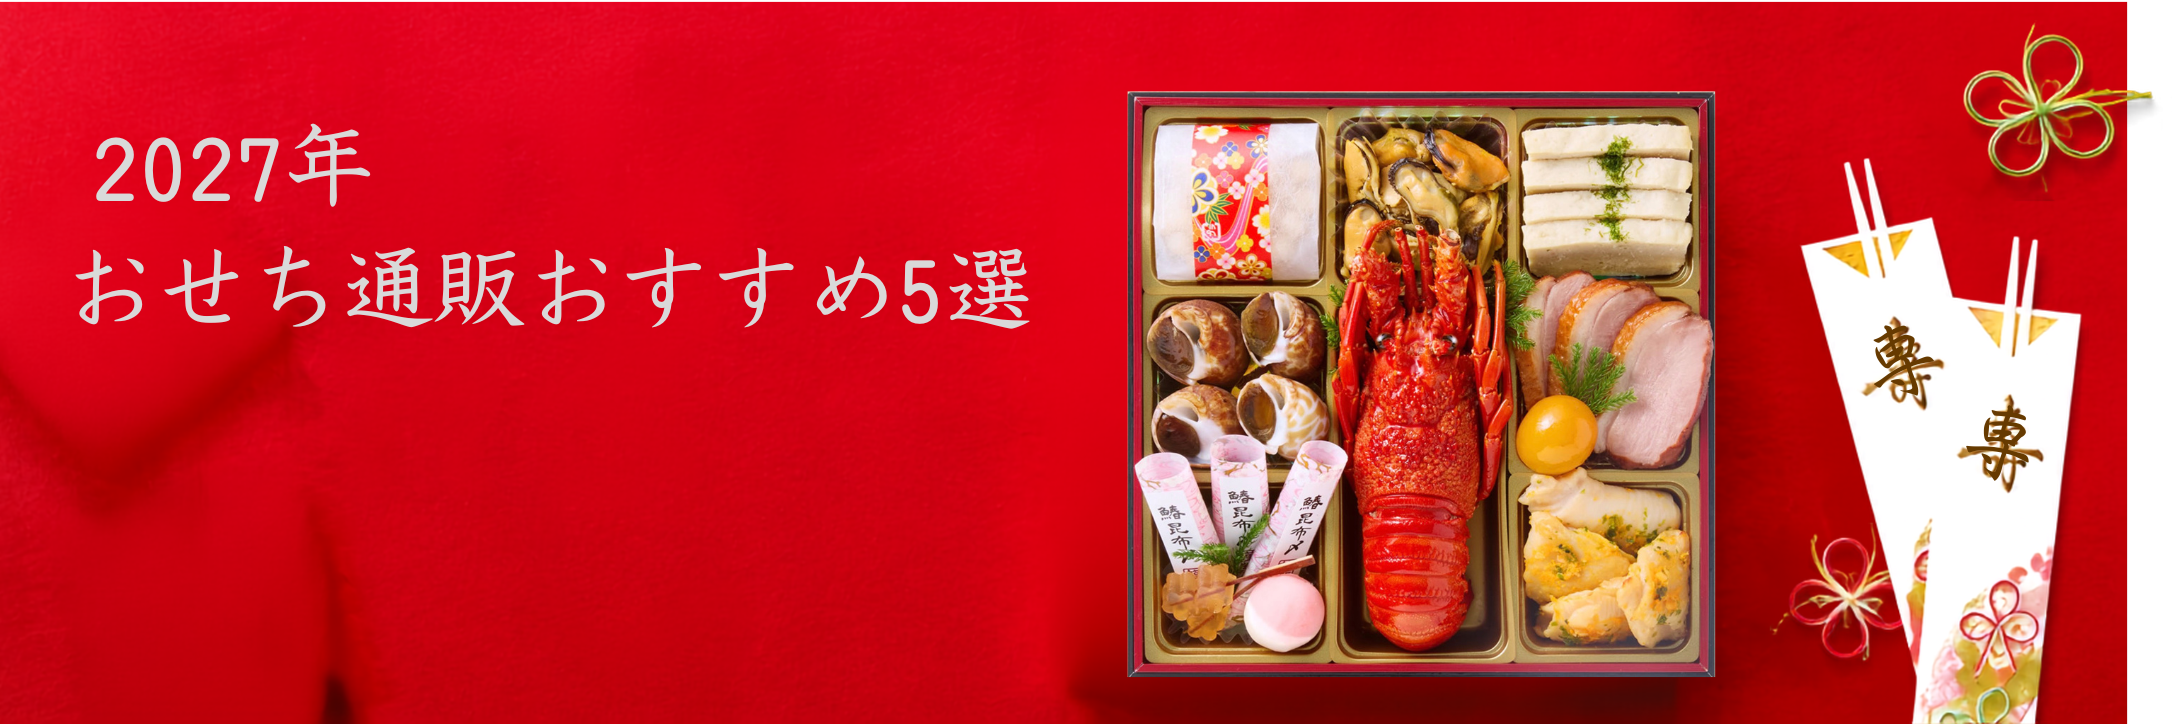
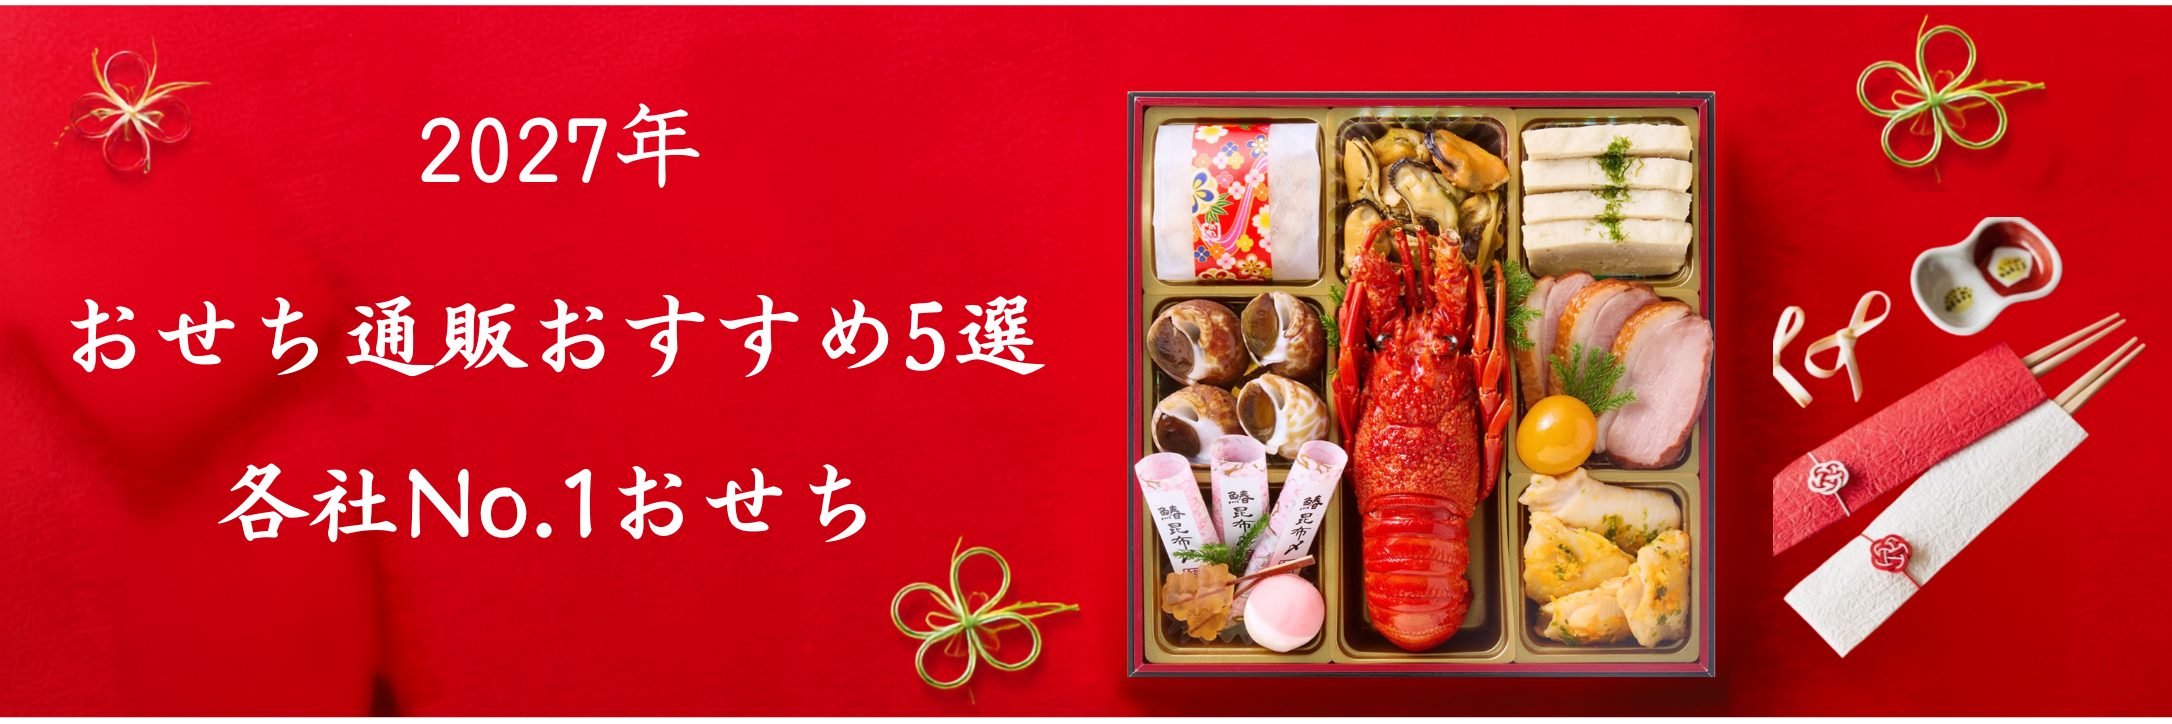
feat: update osechi summary cards

Changed region(s): [[0.0, 0.0, 1.0, 1.0], [0.0308, 0.0608, 0.3393, 0.2735]]

diff --git a/wordpress-fixed-page.html b/wordpress-fixed-page.html
@@ -12,8 +12,8 @@
   <section class="osechi-hero-intro" aria-labelledby="osechi-hero-title">
     <p class="osechi-kicker">新しい年の食卓を、心から楽しむために</p>
     <p id="osechi-hero-title" class="osechi-hero__title">家族に合う一品を<br class="osechi-sp-only">見つけるおせち案内</p>
-    <p class="osechi-hero__lead">人気おせち通販5社の代表商品を、人数・価格・冷蔵／冷凍・料理の種類から公平に比較します。</p>
-    <a class="osechi-button osechi-button--primary" href="#osechi-comparison">おすすめ5商品を比較する</a>
+    <p class="osechi-hero__lead">人気おせち通販5社の代表おせちを、人数・価格・冷蔵／冷凍・料理の種類から公平に比較します。</p>
+    <a class="osechi-button osechi-button--primary" href="#osechi-comparison">おすすめ5おせちを比較する</a>
     <p class="osechi-updated">最終更新：2026年8月18日</p>
   </section>
 
@@ -30,23 +30,15 @@
 
   <section id="osechi-conclusion" class="osechi-section">
     <p class="osechi-section-label">SELECT GUIDE</p>
-    <h2>30秒で分かるおすすめ5商品</h2>
-    <p class="osechi-section__intro">順位だけでなく、食べる人数や保存方法が合う商品を選ぶことが大切です。まずは、ご家庭に近い条件から候補を絞ってください。</p>
+    <h2>30秒で分かるおすすめ5おせち</h2>
+    <p class="osechi-section__intro">順位だけでなく、食べる人数や保存方法が合うおせちを選ぶことが大切です。まずは、ご家庭に近い条件から候補を絞ってください。</p>
     <div class="osechi-summary-grid">
-      <article class="osechi-summary-card osechi-summary-card--first">
-        <span class="osechi-rank">1位</span>
-        <h3>匠本舗「極」</h3>
-        <p class="osechi-summary-card__fit">7〜8人で囲む大人数のお正月に</p>
-        <p>冷蔵・和風六段重</p>
-        <a href="#osechi-kiwami">詳しく見る</a>
-      </article>
-      <article class="osechi-summary-card">
-        <span class="osechi-rank">2位</span>
-        <h3>博多久松「博多」</h3>
-        <p class="osechi-summary-card__fit">4〜5人で和洋折衷を楽しみたい方に</p>
-        <p>冷凍・和洋折衷三段重</p>
-        <a href="#osechi-hakata">詳しく見る</a>
-      </article>
+      <a class="osechi-summary-image-card" href="https://px.a8.net/svt/ejp?a8mat=2ZNPW2+90HR7U+1ZWM+HUKPU&amp;a8ejpredirect=https%3A%2F%2Fskynet-c.jp%2Fgoods%2F260.html" target="_blank" rel="nofollow sponsored noopener" aria-label="1位 匠本舗「極」の公式サイトを確認する">
+        <img src="https://xn--t8ja4cb2a1w127tbjntz7hygh.com/wp-content/uploads/2026/08/osechi-summary-rank1-kiwami-1.png?v=20260819" alt="1位 匠本舗 極 7〜8人で囲む大人数のお正月に 冷蔵・和風六段重" width="1536" height="1024" loading="lazy" />
+      </a>
+      <a class="osechi-summary-image-card" href="#osechi-hakata" aria-label="2位 博多久松「博多」の詳細を見る">
+        <img src="https://xn--t8ja4cb2a1w127tbjntz7hygh.com/wp-content/uploads/2026/08/osechi-summary-rank2-hakata.png" alt="2位 博多久松 博多 4〜5人で和洋折衷を楽しみたい方に 冷凍・和洋三段重" width="1536" height="1024" loading="lazy" />
+      </a>
       <article class="osechi-summary-card">
         <span class="osechi-rank">3位</span>
         <h3>千賀屋「おもてなし」</h3>
@@ -73,14 +65,14 @@
 
   <section id="osechi-comparison" class="osechi-section">
     <p class="osechi-section-label">COMPARISON</p>
-    <h2>人気5商品の違いを比較</h2>
+    <h2>人気5おせちの違いを比較</h2>
     <p class="osechi-section__intro">価格・早割期限は販売先や予約時期により変わります。表では確認済みの基本仕様を中心に比較し、最新価格は各販売先で確認できるようにしています。</p>
 
-    <div class="osechi-table-wrap" role="region" aria-label="おすすめおせち5商品比較" tabindex="0">
+    <div class="osechi-table-wrap" role="region" aria-label="おすすめおせち5おせち比較" tabindex="0">
       <table class="osechi-comparison-table">
         <thead>
           <tr>
-            <th scope="col">順位・商品</th>
+            <th scope="col">順位・おせち</th>
             <th scope="col">人数</th>
             <th scope="col">品数</th>
             <th scope="col">保存</th>
@@ -184,7 +176,7 @@
         <a class="osechi-button osechi-button--amazon" href="https://amzn.to/3TMpo0M" target="_blank" rel="nofollow sponsored noopener">Amazonで「博多」を確認する</a>
         <a class="osechi-button osechi-button--rakuten" href="https://a.r10.to/T3s569" target="_blank" rel="nofollow sponsored noopener">楽天市場で「博多」を確認する</a>
       </div>
-      <p class="osechi-alt-links">別の掲載リンク：<a href="https://amzn.to/4yXOl9P" target="_blank" rel="nofollow sponsored noopener">Amazon商品ページ</a>／<a href="https://amzn.to/3TDupsA" target="_blank" rel="nofollow sponsored noopener">Amazon商品ページ</a>／<a href="https://amzn.to/4fJfpBX" target="_blank" rel="nofollow sponsored noopener">Amazon商品ページ</a>／<a href="https://a.r10.to/T3s87v" target="_blank" rel="nofollow sponsored noopener">楽天市場商品ページ</a></p>
+      <p class="osechi-alt-links">別の掲載リンク：<a href="https://amzn.to/4yXOl9P" target="_blank" rel="nofollow sponsored noopener">Amazonおせちページ</a>／<a href="https://amzn.to/3TDupsA" target="_blank" rel="nofollow sponsored noopener">Amazonおせちページ</a>／<a href="https://amzn.to/4fJfpBX" target="_blank" rel="nofollow sponsored noopener">Amazonおせちページ</a>／<a href="https://a.r10.to/T3s87v" target="_blank" rel="nofollow sponsored noopener">楽天市場おせちページ</a></p>
     </article>
 
     <article id="osechi-omotenashi" class="osechi-product">
@@ -202,7 +194,7 @@
         <a class="osechi-button osechi-button--amazon" href="https://amzn.to/4hSRUHY" target="_blank" rel="nofollow sponsored noopener">Amazonで「おもてなし」を確認する</a>
         <a class="osechi-button osechi-button--rakuten" href="https://a.r10.to/hkwOQR" target="_blank" rel="nofollow sponsored noopener">楽天市場で「おもてなし」を確認する</a>
       </div>
-      <p class="osechi-alt-links">別の掲載リンク：<a href="https://amzn.to/4wePQxH" target="_blank" rel="nofollow sponsored noopener">Amazon商品ページ</a>／<a href="https://amzn.to/4whBSLB" target="_blank" rel="nofollow sponsored noopener">Amazon商品ページ</a></p>
+      <p class="osechi-alt-links">別の掲載リンク：<a href="https://amzn.to/4wePQxH" target="_blank" rel="nofollow sponsored noopener">Amazonおせちページ</a>／<a href="https://amzn.to/4whBSLB" target="_blank" rel="nofollow sponsored noopener">Amazonおせちページ</a></p>
     </article>
 
     <article id="osechi-hanakago" class="osechi-product">
@@ -221,7 +213,7 @@
         <a class="osechi-button osechi-button--amazon" href="https://amzn.to/45g9myH" target="_blank" rel="nofollow sponsored noopener">Amazonで「花籠」を確認する</a>
         <a class="osechi-button osechi-button--rakuten" href="https://a.r10.to/hPoC6S" target="_blank" rel="nofollow sponsored noopener">楽天市場で「花籠」を確認する</a>
       </div>
-      <p class="osechi-alt-links">別の掲載リンク：<a href="https://amzn.to/4q1A0oo" target="_blank" rel="nofollow sponsored noopener">Amazon商品ページ</a>／<a href="https://amzn.to/4cnMXDq" target="_blank" rel="nofollow sponsored noopener">Amazon商品ページ</a>／<a href="https://amzn.to/4q5U8WK" target="_blank" rel="nofollow sponsored noopener">Amazon商品ページ</a></p>
+      <p class="osechi-alt-links">別の掲載リンク：<a href="https://amzn.to/4q1A0oo" target="_blank" rel="nofollow sponsored noopener">Amazonおせちページ</a>／<a href="https://amzn.to/4cnMXDq" target="_blank" rel="nofollow sponsored noopener">Amazonおせちページ</a>／<a href="https://amzn.to/4q5U8WK" target="_blank" rel="nofollow sponsored noopener">Amazonおせちページ</a></p>
     </article>
 
     <article id="osechi-kamitakasago" class="osechi-product">
@@ -282,15 +274,15 @@
     <div class="osechi-faq-list">
       <div class="osechi-faq-item"><h3>冷蔵と冷凍はどちらがよいですか？</h3><p>解凍の手間を省きたいなら冷蔵、早めに受け取って保管したい場合は冷凍が候補です。冷蔵庫・冷凍庫の空きと受取日も合わせて選んでください。</p></div>
       <div class="osechi-faq-item"><h3>何人前を選べばよいですか？</h3><p>おせちだけを食べるか、雑煮や寿司なども用意するかで必要量が変わります。人数表示は目安として、料理内容と重箱サイズも確認してください。</p></div>
-      <div class="osechi-faq-item"><h3>公式サイト・Amazon・楽天市場のどこで買うべきですか？</h3><p>価格、在庫、ポイント、配送条件が異なる場合があります。各リンク先の商品名と販売元を確認し、条件を比較して選んでください。</p></div>
+      <div class="osechi-faq-item"><h3>公式サイト・Amazon・楽天市場のどこで買うべきですか？</h3><p>価格、在庫、ポイント、配送条件が異なる場合があります。各リンク先のおせち名と販売元を確認し、条件を比較して選んでください。</p></div>
       <div class="osechi-faq-item"><h3>ページに書かれた価格と違う場合は？</h3><p>価格や早割期限は変更されるため、購入手続き画面に表示される価格が優先されます。</p></div>
-      <div class="osechi-faq-item"><h3>いつまでに予約すればよいですか？</h3><p>締切前でも在庫状況により受付が終了する場合があります。希望商品が決まったら、在庫・配送日・キャンセル条件を確認して判断してください。</p></div>
+      <div class="osechi-faq-item"><h3>いつまでに予約すればよいですか？</h3><p>締切前でも在庫状況により受付が終了する場合があります。希望おせちが決まったら、在庫・配送日・キャンセル条件を確認して判断してください。</p></div>
     </div>
   </section>
 
   <section id="osechi-final" class="osechi-section osechi-final">
-    <h2>5商品をもう一度比較して予約先を確認</h2>
-    <p>最後に、人数・保存方法・料理タイプをもう一度確認してください。価格、在庫、早割期限、配送条件は各販売先の商品ページで確認できます。</p>
+    <h2>5おせちをもう一度比較して予約先を確認</h2>
+    <p>最後に、人数・保存方法・料理タイプをもう一度確認してください。価格、在庫、早割期限、配送条件は各販売先のおせちページで確認できます。</p>
     <div class="osechi-final-grid">
       <a href="#osechi-kiwami"><strong>7〜8人・冷蔵</strong><span>匠本舗「極」</span></a>
       <a href="#osechi-hakata"><strong>4〜5人・冷凍</strong><span>博多久松「博多」</span></a>

diff --git a/wordpress-additional.css b/wordpress-additional.css
@@ -35,7 +35,7 @@
 .osechi-page h3 { margin: 0; color: var(--osechi-wine-dark); font-size: 1.25rem; line-height: 1.5; }
 .osechi-page h4 { margin: 0 0 .5em; color: var(--osechi-wine-dark); font-size: 1.05rem; }
 .osechi-page p { margin: 0 0 1em; }
-.osechi-hero { position: relative; min-height: clamp(250px, 33.333vw, 333px); overflow: hidden; background-color: #b50012; background-image: url("https://xn--t8ja4cb2a1w127tbjntz7hygh.com/wp-content/uploads/2026/08/おせちのブログヘッダー画像.png"); background-position: center; background-size: 102% auto; background-repeat: no-repeat; border: 1px solid #9b0715; box-shadow: 0 12px 34px rgba(64, 9, 15, .18); }
+.osechi-hero { position: relative; min-height: clamp(250px, 33.333vw, 333px); overflow: hidden; background-color: #b50012; background-image: url("https://xn--t8ja4cb2a1w127tbjntz7hygh.com/wp-content/uploads/2026/08/osechi-blog-header-2027-1.png"); background-position: center; background-size: 102% auto; background-repeat: no-repeat; border: 1px solid #9b0715; box-shadow: 0 12px 34px rgba(64, 9, 15, .18); }
 /* 旧版HTMLが残っていても、ヘッダー画像上の重複文字・ボタンを表示しない */
 .osechi-hero > :not(.osechi-visually-hidden) { display: none !important; }
 .osechi-hero-intro { position: relative; max-width: 820px; margin: clamp(34px, 6vw, 66px) auto 0; padding: 0 28px; text-align: center; }
@@ -60,9 +60,12 @@
 .osechi-button--primary, .osechi-button--official { background: var(--osechi-wine); border-color: var(--osechi-gold); }
 .osechi-button--amazon { color: #241b0e !important; background: #f3b33d; }
 .osechi-button--rakuten { background: #a81324; }
-.osechi-summary-grid { display: grid; grid-template-columns: repeat(3, 1fr); gap: 18px; }
-.osechi-summary-card { position: relative; min-height: 220px; padding: 26px; background: linear-gradient(145deg, #fff, var(--osechi-ivory)); border: 1px solid var(--osechi-border); border-top: 4px solid var(--osechi-gold); box-shadow: 0 8px 24px rgba(62,43,27,.09); }
-.osechi-summary-card--first { grid-column: span 2; color: #fff; background: linear-gradient(135deg, var(--osechi-wine-dark), var(--osechi-wine)); border-color: var(--osechi-gold); }.osechi-summary-card--first h3, .osechi-summary-card--first a { color: #fff; }.osechi-summary-card--first .osechi-rank { color: var(--osechi-wine-dark); background: var(--osechi-gold-light); }
+.osechi-summary-grid { display: grid; grid-template-columns: repeat(6, minmax(0, 1fr)); gap: 18px; }
+.osechi-summary-image-card { grid-column: span 3; display: block; overflow: hidden; aspect-ratio: 3 / 2; background: #fff; border: 1px solid var(--osechi-gold); box-shadow: 0 8px 24px rgba(62,43,27,.09); transition: box-shadow .2s, transform .2s; }
+.osechi-summary-image-card:hover { box-shadow: 0 12px 30px rgba(62,43,27,.15); transform: translateY(-2px); }
+.osechi-summary-image-card img { display: block; width: 100%; height: 100%; object-fit: cover; }
+.osechi-summary-grid > br, .osechi-summary-grid > p:empty, .osechi-summary-image-card > br { display: none !important; }
+.osechi-summary-card { grid-column: span 2; position: relative; min-height: 220px; padding: 26px; background: linear-gradient(145deg, #fff, var(--osechi-ivory)); border: 1px solid var(--osechi-border); border-top: 4px solid var(--osechi-gold); box-shadow: 0 8px 24px rgba(62,43,27,.09); }
 .osechi-summary-card p { margin: 8px 0; font-size: .92rem; }.osechi-summary-card__fit { min-height: 3.4em; font-weight: 700; }
 .osechi-summary-card a { color: var(--osechi-wine); font-weight: 700; }
 .osechi-rank { display: inline-block; margin: 0 0 8px; padding: 2px 10px; color: #fff; font-size: .82rem; font-weight: 700; background: var(--osechi-gold); border-radius: 999px; }
@@ -104,7 +107,7 @@
 
 @media (max-width: 800px) {
   .osechi-page { font-size: 16px; }
-  .osechi-summary-grid { grid-template-columns: repeat(2, 1fr); }.osechi-summary-card--first { grid-column: span 2; }
+  .osechi-summary-grid { grid-template-columns: repeat(2, minmax(0, 1fr)); }.osechi-summary-image-card, .osechi-summary-card { grid-column: span 1; }.osechi-summary-card:last-child { grid-column: 1 / -1; }
   .osechi-type-grid { grid-template-columns: repeat(2, 1fr); }
   .osechi-type-card:last-child { grid-column: 1 / -1; }
   .osechi-product__body { grid-template-columns: 1fr; }.osechi-product:nth-of-type(even) .osechi-product__media { order: initial; }.osechi-product__media { max-width: 520px; margin: 0 auto; }
@@ -119,7 +122,9 @@
   .osechi-hero { min-height: 0; aspect-ratio: 3 / 1; background-position: center; }
   .osechi-hero-intro { padding: 0 14px; }
   .osechi-trust-strip { grid-template-columns: 1fr; }.osechi-trust-strip div { padding: 14px; border-right: 0; border-bottom: 1px solid rgba(255,255,255,.14); }
-  .osechi-summary-grid, .osechi-type-grid { grid-template-columns: 1fr; }.osechi-summary-card--first, .osechi-type-card:last-child { grid-column: auto; }
+  .osechi-summary-grid { grid-template-columns: 1fr; gap: 10px; }
+  .osechi-summary-image-card, .osechi-summary-card, .osechi-summary-card:last-child { grid-column: auto; }
+  .osechi-type-grid { grid-template-columns: 1fr; }.osechi-type-card:last-child { grid-column: auto; }
   .osechi-summary-card__fit { min-height: 0; }
   .osechi-table-wrap { overflow: visible; border: 0; }
   .osechi-comparison-table { min-width: 0; border: 0; }
